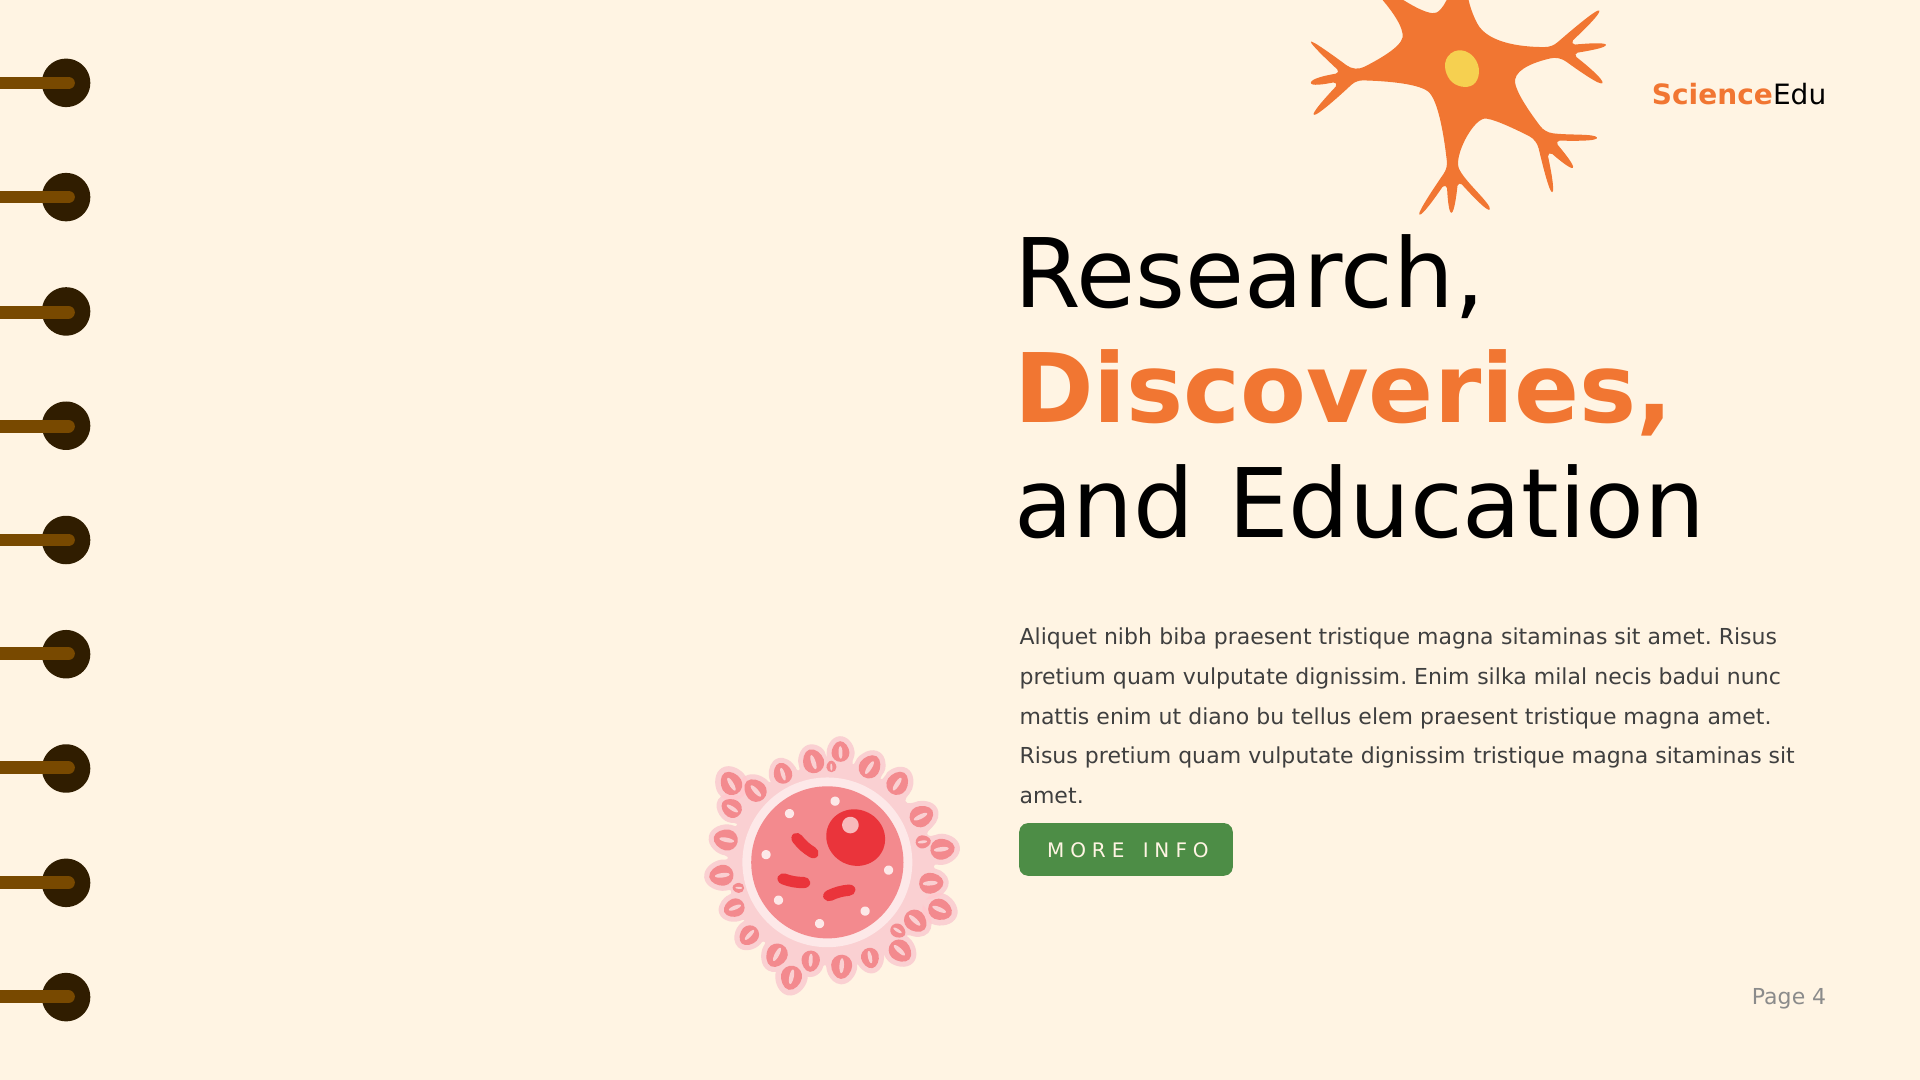
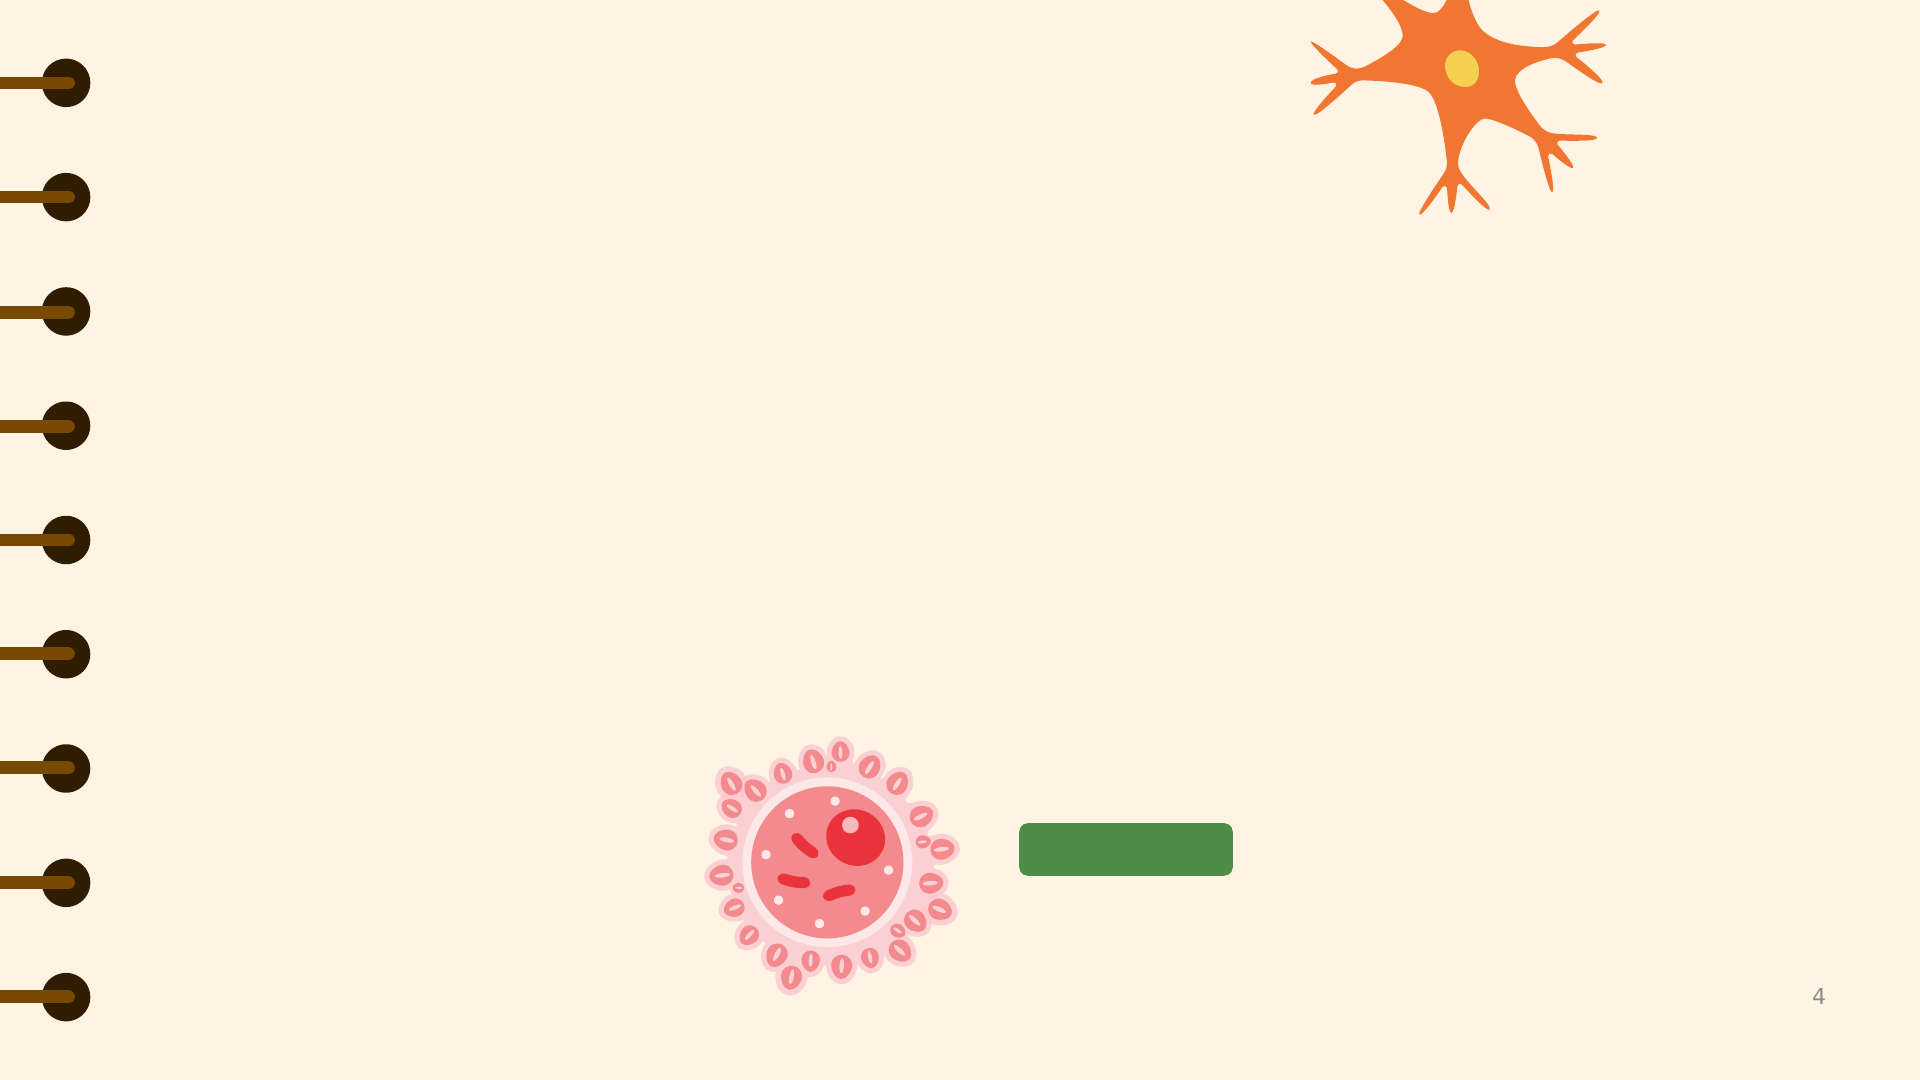
fix: use clean template backgrounds without text artifacts
- Removed all text from PPTX templates via python-pptx before PNG export
- History & Biology backgrounds now have only decorative elements (ship, mountains, microscope, cells) — no template text
- Removed academic/chemistry themes (had embedded text as images that couldn't be cleaned)
- 2 themes remain: warm (history) and green (biology)
- Default theme changed to warm

diff --git a/teacher-app/src/components/presentation/slide-themes.ts b/teacher-app/src/components/presentation/slide-themes.ts
@@ -3,34 +3,28 @@ import type { SlideThemeName } from '@/types/presentation';
 export interface SlideThemeConfig {
   name: SlideThemeName;
   label: string;
-  // Background images per slide type
   bg: {
     title: string;
     content: string;
     terms: string;
     summary: string;
   };
-  // Text colors (tuned to match the background)
   titleColor: string;
   subtitleColor: string;
   headingColor: string;
   bodyColor: string;
-  // Accent colors for badges, borders, highlights
   accentColor: string;
   accentBg: string;
   accentBorder: string;
   badgeBg: string;
   badgeText: string;
-  // Cards overlaid on background
   cardBg: string;
   cardText: string;
   cardBorder: string;
-  // Quiz
   correctBg: string;
   correctBorder: string;
   correctText: string;
   optionBg: string;
-  // Summary
   checkBg: string;
 }
 
@@ -87,33 +81,6 @@ export const THEMES: Record<SlideThemeName, SlideThemeConfig> = {
     correctBorder: 'border-emerald-500',
     correctText: 'text-emerald-800',
     optionBg: 'bg-white/85',
-    checkBg: 'bg-emerald-600',
-  },
-  blue: {
-    name: 'blue',
-    label: 'Академический',
-    bg: {
-      title:   '/slide-bg/academic/title.png',
-      content: '/slide-bg/academic/content.png',
-      terms:   '/slide-bg/academic/terms.png',
-      summary: '/slide-bg/academic/summary.png',
-    },
-    titleColor: 'text-slate-800',
-    subtitleColor: 'text-slate-500',
-    headingColor: 'text-blue-800',
-    bodyColor: 'text-slate-700',
-    accentColor: 'text-blue-600',
-    accentBg: 'bg-blue-50/80',
-    accentBorder: 'border-blue-400',
-    badgeBg: 'bg-blue-600',
-    badgeText: 'text-white',
-    cardBg: 'bg-white/80',
-    cardText: 'text-slate-800',
-    cardBorder: 'border-blue-200/50',
-    correctBg: 'bg-emerald-100/85',
-    correctBorder: 'border-emerald-500',
-    correctText: 'text-emerald-800',
-    optionBg: 'bg-white/80',
     checkBg: 'bg-emerald-600',
   },
 };

diff --git a/teacher-app/src/app/[locale]/(dashboard)/presentations/create/page.tsx b/teacher-app/src/app/[locale]/(dashboard)/presentations/create/page.tsx
@@ -24,7 +24,7 @@ export default function PresentationCreatePage() {
   const [selection, setSelection] = useState<ContentSelection>({});
   const [language, setLanguage] = useState<string>('kk');
   const [slideCount, setSlideCount] = useState<string>('10');
-  const [themeName, setThemeName] = useState<SlideThemeName>('blue');
+  const [themeName, setThemeName] = useState<SlideThemeName>('warm');
   const [result, setResult] = useState<PresentationGenerateResponse | null>(null);
   const [savedId, setSavedId] = useState<number | null>(null);
 

diff --git a/teacher-app/src/types/presentation.ts b/teacher-app/src/types/presentation.ts
@@ -1,4 +1,4 @@
-export type SlideThemeName = 'blue' | 'green' | 'warm';
+export type SlideThemeName = 'warm' | 'green';
 
 export interface PresentationGenerateRequest {
   paragraph_id: number;

diff --git a/backend/app/services/presentation_export.py b/backend/app/services/presentation_export.py
@@ -99,9 +99,8 @@ CARD_PAD = Inches(0.25)
 def get_available_templates() -> list[dict]:
     """Return color themes as 'templates' for the frontend."""
     return [
-        {"slug": "blue", "label": "Академический (синий)"},
-        {"slug": "green", "label": "Биология (зелёный)"},
         {"slug": "warm", "label": "История (тёплый)"},
+        {"slug": "green", "label": "Биология (зелёный)"},
     ]
 
 
